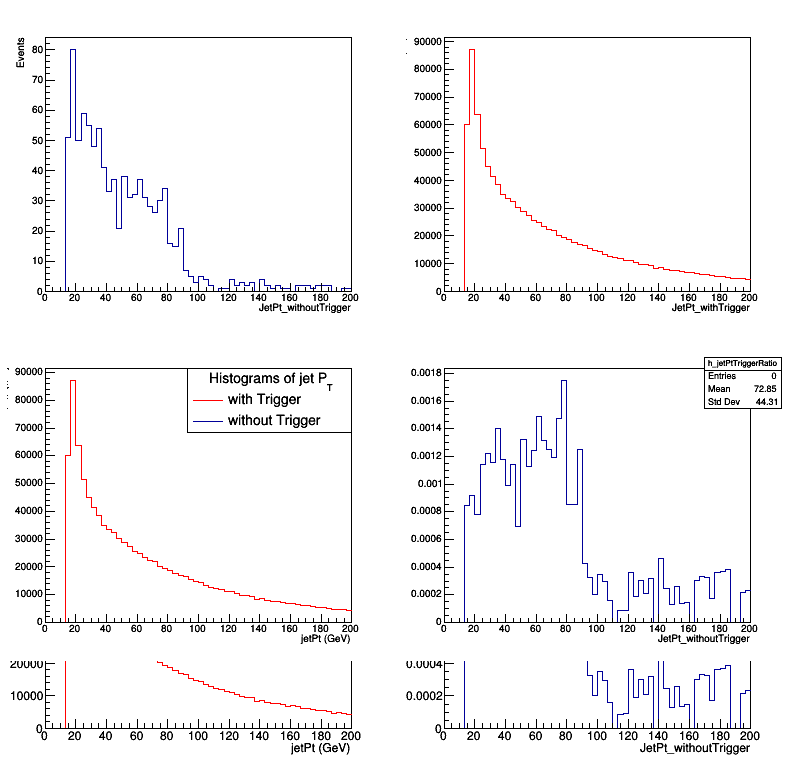
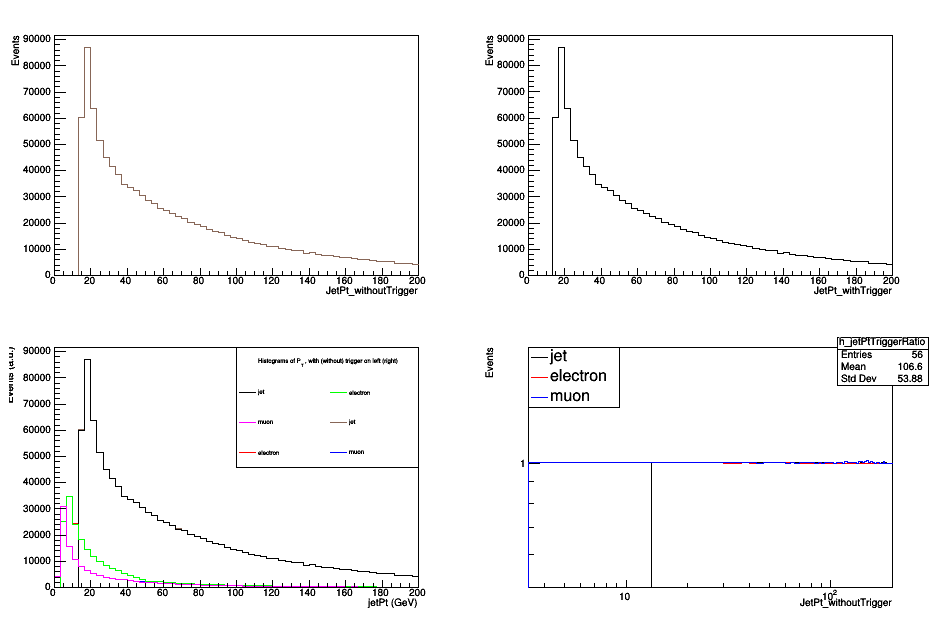
minor changes

diff --git a/CH05.py b/CH05.py
@@ -23,23 +23,36 @@ class HistogramMaker(Module): #This line defines our class ExampleModule, and in
         #The histogram then has to be 'booked' with the service that will write everything to the output file via self.addObject()
         self.h_jets = ROOT.TH1D('h_jets', 'someTitle;nJets;Events',   20, 0, 20)
         self.addObject(self.h_jets)
-        #Repeat for other histograms
+        self.h_jetsT = ROOT.TH1D('h_jetsT', 'someTitle;nJets;Events',   20, 0, 20)
+        self.addObject(self.h_jetsT)
         self.h_fatjets = ROOT.TH1D('h_fatjets', ';nFatJets;Events', 8, 0, 8)
         self.addObject(self.h_fatjets)
+        self.h_fatjetsT = ROOT.TH1D('h_fatjetsT', ';nFatJets;Events', 8, 0, 8)
+        self.addObject(self.h_fatjetsT)
         self.h_subjets = ROOT.TH1D('h_subjets', ';nSubJets;Events', 16, 0, 16)
         self.addObject(self.h_subjets)
+        self.h_subjetsT = ROOT.TH1D('h_subjetsT', ';nSubJets;Events', 16, 0, 16)
+        self.addObject(self.h_subjetsT)
 	self.h_jetEta = ROOT.TH1D('h_jetEta', ';valJetEta;Events', 40, -2.5, 2.5)
         self.addObject(self.h_jetEta)
-	self.h_jetPtTrigger = ROOT.TH1D('h_jetPtTrigger', ';JetPt_withTrigger;Events', 60, 0, 200)
-        self.addObject(self.h_jetPtTrigger)
-	self.h_jetPt = ROOT.TH1D('h_jetPt', ';JetPt_withoutTrigger;Events', 60, 0, 200)
+	self.h_jetEtaT = ROOT.TH1D('h_jetEtaT', ';valJetEta;Events', 40, -2.5, 2.5)
+        self.addObject(self.h_jetEtaT)
+        self.h_jetPt = ROOT.TH1D('h_jetPt', ';JetPt_withoutTrigger;Events', 60, 0, 200)
         self.addObject(self.h_jetPt)
+        self.h_jetPtT = ROOT.TH1D('h_jetPtT', ';JetPt_withTrigger;Events', 60, 0, 200)
+        self.addObject(self.h_jetPtT)
 	self.h_elPt = ROOT.TH1D('h_elPt', ';valElPt;Events', 60, 0, 200)
         self.addObject(self.h_elPt)
+	self.h_elPtT = ROOT.TH1D('h_elPtT', ';valElPt;Events', 60, 0, 200)
+        self.addObject(self.h_elPtT)
 	self.h_muonPt = ROOT.TH1D('h_muonPt', ';valMuonPt;Events', 60, 0, 200)
         self.addObject(self.h_muonPt)
+	self.h_muonPtT = ROOT.TH1D('h_muonPtT', ';valMuonPt;Events', 60, 0, 200)
+        self.addObject(self.h_muonPtT)
 	self.h_jetPhi = ROOT.TH1D('h_jetPhi', ';valJetPhi;Events', 20, -3.14, 3.14)
         self.addObject(self.h_jetPhi)
+	self.h_jetPhiT = ROOT.TH1D('h_jetPhiT', ';valJetPhi;Events', 20, -3.14, 3.14)
+        self.addObject(self.h_jetPhiT)
         self.h_jet_map = ROOT.TH2F('h_jet_map', ';Jet Eta;Jet Phi', 40, -2.5, 2.5, 20, -3.14, 3.14)
         self.addObject(self.h_jet_map)
         self.h_jetPtPhi = ROOT.TH2F('h_jetPtPhi', ';Jet Phi;Jet Pt', 20, -3.14, 3.14, 60, 30, 400)
@@ -119,8 +132,7 @@ class HistogramMaker(Module): #This line defines our class ExampleModule, and in
                 continue
 
             if hltriger:
-                self.h_jetPtTrigger.Fill(jet.pt)
-                continue
+                self.h_jetPtT.Fill(jet.pt)
             #jetCounter += 1
             # Fill 2D histo
             self.h_jet_map.Fill(jet.eta, jet.phi)
@@ -130,9 +142,6 @@ class HistogramMaker(Module): #This line defines our class ExampleModule, and in
             #numJet = getattr(event, "nJet")
             self.h_jetPtnjet.Fill(nAK4Jets,jet.pt)
             self.h_jetPt.Fill(jet.pt)
-            """for nm, muon in enumerate(muons) :
-               #eventSum += muon.p4()
-               self.h_muonPt.Fill(muon.pt)"""
             #Count b-tagged jets with two algos at the medium working point
             #https://twiki.cern.ch/twiki/bin/viewauth/CMS/BtagRecommendation94X
             if jet.btagCSVV2 > 0.8838:
@@ -141,20 +150,15 @@ class HistogramMaker(Module): #This line defines our class ExampleModule, and in
                 nMedDeepB += 1
 
         #Use the enumerate() function to get both an index and the iterated item in the collection
-        #print("\n{0:>5s} {1:>10s} {2:>10s} {3:>10s}".format("Muon", "Pt", "Eta", "Phi"))
-
-            #print("{0:*<5d} {1:>10.4f} {2:>+10.3f} {3:>+10.3f}".format(nm+1, muon.pt, muon.eta, muon.phi))
-
-        #print("\n{0:>5s} {1:>10s} {2:>10s} {3:>10s}".format("Ele", "Pt", "Eta", "Phi"))
         for ne, ele in enumerate(electrons) :
+            if hltriger:
+                self.h_elPtT.Fill(ele.pt)
             self.h_elPt.Fill(ele.pt)
-            #eventSum += ele.p4()
-            #print("{0:*^5d} {1:>10.4f} {2:> 10.3f} {3:> 10.3f}".format(ne+1, ele.pt, ele.eta, ele.phi))
+        for nm, muon in enumerate(muons) :
+            if hltriger:
+                self.h_muonPtT.Fill(muon.pt)
+            self.h_muonPt.Fill(muon.pt)
 
-        #print("\n{0:>5s} {1:>10s} {2:>10s} {3:>10s}".format("Jet", "Pt", "Eta", "Phi"))
-        """for nj, jet in enumerate(jets):
-            eventSum += jet.p4()
-            print("{0: >5d} {1:>10.4f} {2:>-10.3f} {3:>-10.3f}".format(nj+1, jet.pt, jet.eta, jet.phi))"""
         # Fill 1D histo
 	self.h_jetEta.Fill(jet.eta)
         self.h_jetPhi.Fill(jet.phi)
@@ -205,39 +209,96 @@ p99=PostProcessor(".",
 p99.run()
 #start stackin
 #Create canvas
-triggerCanvas = ROOT.TCanvas('triggerCanvas', 'Canvas of Pt with and without triggers', 800,800)
+triggerCanvas = ROOT.TCanvas('triggerCanvas', 'Canvas of Pt with and without triggers', 950,650)
 triggerCanvas.Divide(2,2)
 
-h_jetPtTriggerStack = ROOT.THStack('h_jetPtTriggerStack', ';jetPt (GeV); Events (a.u.)')
+#Get histos from file
+h_PtTriggerStack = ROOT.THStack('h_PtTriggerStack', ';jetPt (GeV); Events (a.u.)')
 histFile = ROOT.TFile.Open("OutHistoMaker2.root")
 plotDirectory = histFile.cd("plots")
 h_jetPt = ROOT.gDirectory.Get("h_jetPt")
+h_jetPt.SetLineColor(28)
 if not (h_jetPt):
     print("jetPt histogram is empty")
-h_jetPtTrigger = ROOT.gDirectory.Get("h_jetPtTrigger")
-h_jetPtTrigger.SetLineColor(ROOT.kRed)
-if not (h_jetPtTrigger):
-    print("jetPtTrigger histogram is empty")
+h_jetPtT = ROOT.gDirectory.Get("h_jetPtT")
+h_jetPtT.SetLineColor(1)
+if not (h_jetPtT):
+    print("jetPt_t histogram is empty")
+h_elPt = ROOT.gDirectory.Get("h_elPt")
+h_elPt.SetLineColor(2)
+if not (h_elPt):
+    print("elPt histogram is empty")
+h_elPtT = ROOT.gDirectory.Get("h_elPtT")
+h_elPtT.SetLineColor(3)
+if not (h_elPtT):
+    print("elPt_t histogram is empty")
+h_muonPt = ROOT.gDirectory.Get("h_muonPt")
+h_muonPt.SetLineColor(4)
+if not (h_muonPt):
+    print("muonPt histogram is empty")
+h_muonPtT = ROOT.gDirectory.Get("h_muonPtT")
+h_muonPtT.SetLineColor(6)
+if not (h_muonPtT):
+    print("jetPt_t histogram is empty")
+
 cv = triggerCanvas.cd(1)
+h_jetPt.GetYaxis().SetTitleOffset(1.5)
 h_jetPt.Draw()
+
 cv = triggerCanvas.cd(2)
-h_jetPtTrigger.Draw()
+h_jetPtT.GetYaxis().SetTitleOffset(1.5)
+h_jetPtT.Draw()
+
 cv = triggerCanvas.cd(4)
+cv.SetLogy()
+cv.SetLogx()
 h_jetPtTriggerRatio = (h_jetPt).Clone("h_jetPtTriggerRatio")
-h_jetPtTriggerRatio.Divide(h_jetPtTrigger)
+h_jetPtTriggerRatio.Divide(h_jetPtT)
+h_jetPtTriggerRatio.SetLineColor(1)
 h_jetPtTriggerRatio.Draw()
+#h_jetPtTriggerRatio.GetYaxis().SetTitleOffset(1.3)
+h_elPtTriggerRatio = (h_elPt).Clone("h_elPtTriggerRatio")
+h_elPtTriggerRatio.Divide(h_elPtT)
+h_elPtTriggerRatio.SetLineColor(2)
+h_elPtTriggerRatio.Draw('same')
+h_muonPtTriggerRatio = (h_muonPt).Clone("h_muonPtTriggerRatio")
+h_muonPtTriggerRatio.Divide(h_muonPtT)
+h_muonPtTriggerRatio.SetLineColor(4)
+h_muonPtTriggerRatio.Draw('same')
+legg = ROOT.TLegend(0.1, 0.7,0.3, 0.9)
+legg.AddEntry(h_jetPtTriggerRatio, "jet", "l")
+legg.AddEntry(h_elPtTriggerRatio, "electron", "l")
+legg.AddEntry(h_muonPtTriggerRatio, "muon", "l")
+legg.Draw()
+
 cv = triggerCanvas.cd(3)
 #h_jetPtTrigger.Draw()
 #h_jetPt.Draw('same')
-h_jetPtTriggerStack.Add(h_jetPtTrigger)
-h_jetPtTriggerStack.Add(h_jetPt)
-h_jetPtTriggerStack.Draw('nostack')
+h_PtTriggerStack.Add(h_jetPt)
+h_jetPt.GetYaxis().SetTitleOffset(1.5)
+h_PtTriggerStack.Add(h_elPt)
+h_PtTriggerStack.Add(h_muonPt)
+h_PtTriggerStack.Add(h_jetPtT)
+h_PtTriggerStack.Add(h_elPtT)
+h_muonPtT.GetYaxis().SetTitleOffset(1.5)
+h_PtTriggerStack.Add(h_muonPtT)
+#h_PtTriggerStack.GetYaxis().SetTitleOffset(1.5)
+h_PtTriggerStack.Draw('nostack')
 h_jetPt.SetStats(False)
-h_jetPtTrigger.SetStats(False)
-legend = ROOT.TLegend(0.47, 0.7,0.9, 0.9)
-legend.SetHeader("Histograms of jet P_{T}", "C")
-legend.AddEntry(h_jetPtTrigger, "with Trigger", "l")
-legend.AddEntry(h_jetPt, "without Trigger", "l")
+h_jetPtT.SetStats(False)
+h_elPt.SetStats(False)
+h_elPtT.SetStats(False)
+h_muonPt.SetStats(False)
+h_muonPtT.SetStats(False)
+legend = ROOT.TLegend(0.5, 0.5,0.9, 0.9)
+legend.SetNColumns(2)
+legend.SetHeader("Histograms of P_{T}, with (without) trigger on left (right)", "C")
+legend.AddEntry(h_jetPtT, "jet", "l")
+legend.AddEntry(h_elPtT, "electron", "l")
+legend.AddEntry(h_muonPtT, "muon ", "l")
+legend.AddEntry(h_jetPt, "jet", "l")
+legend.AddEntry(h_elPt, "electron", "l")
+legend.AddEntry(h_muonPt, "muon ", "l")
 legend.Draw()
 triggerCanvas.Print("histCanvas.png")
 histFile.Close()
